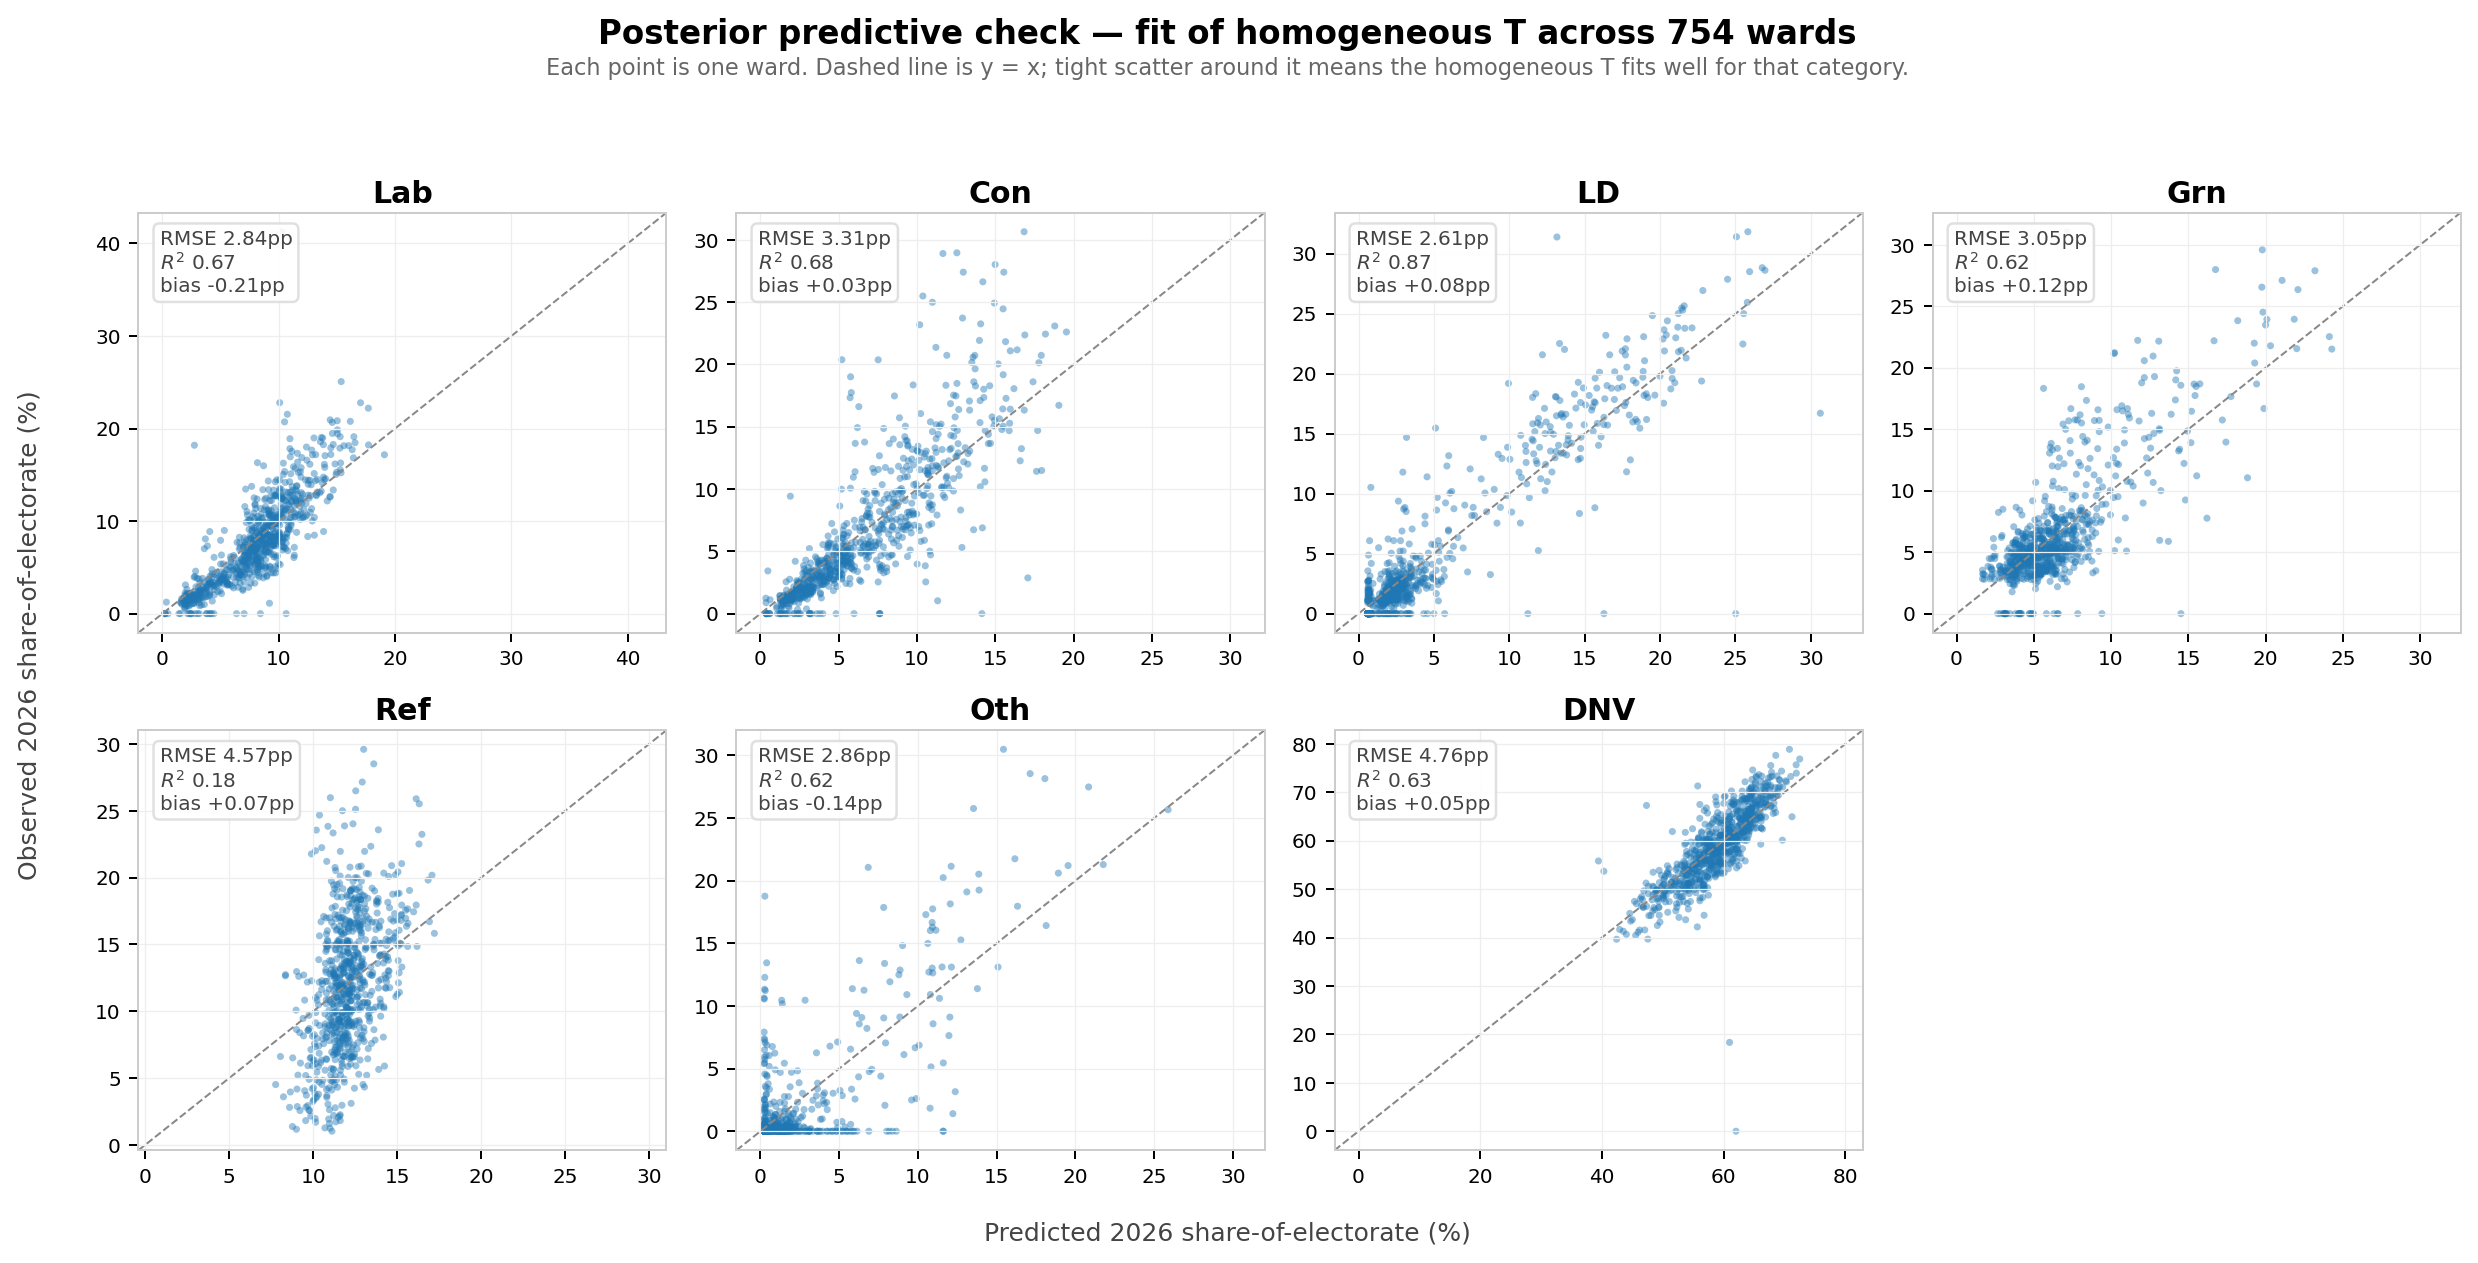
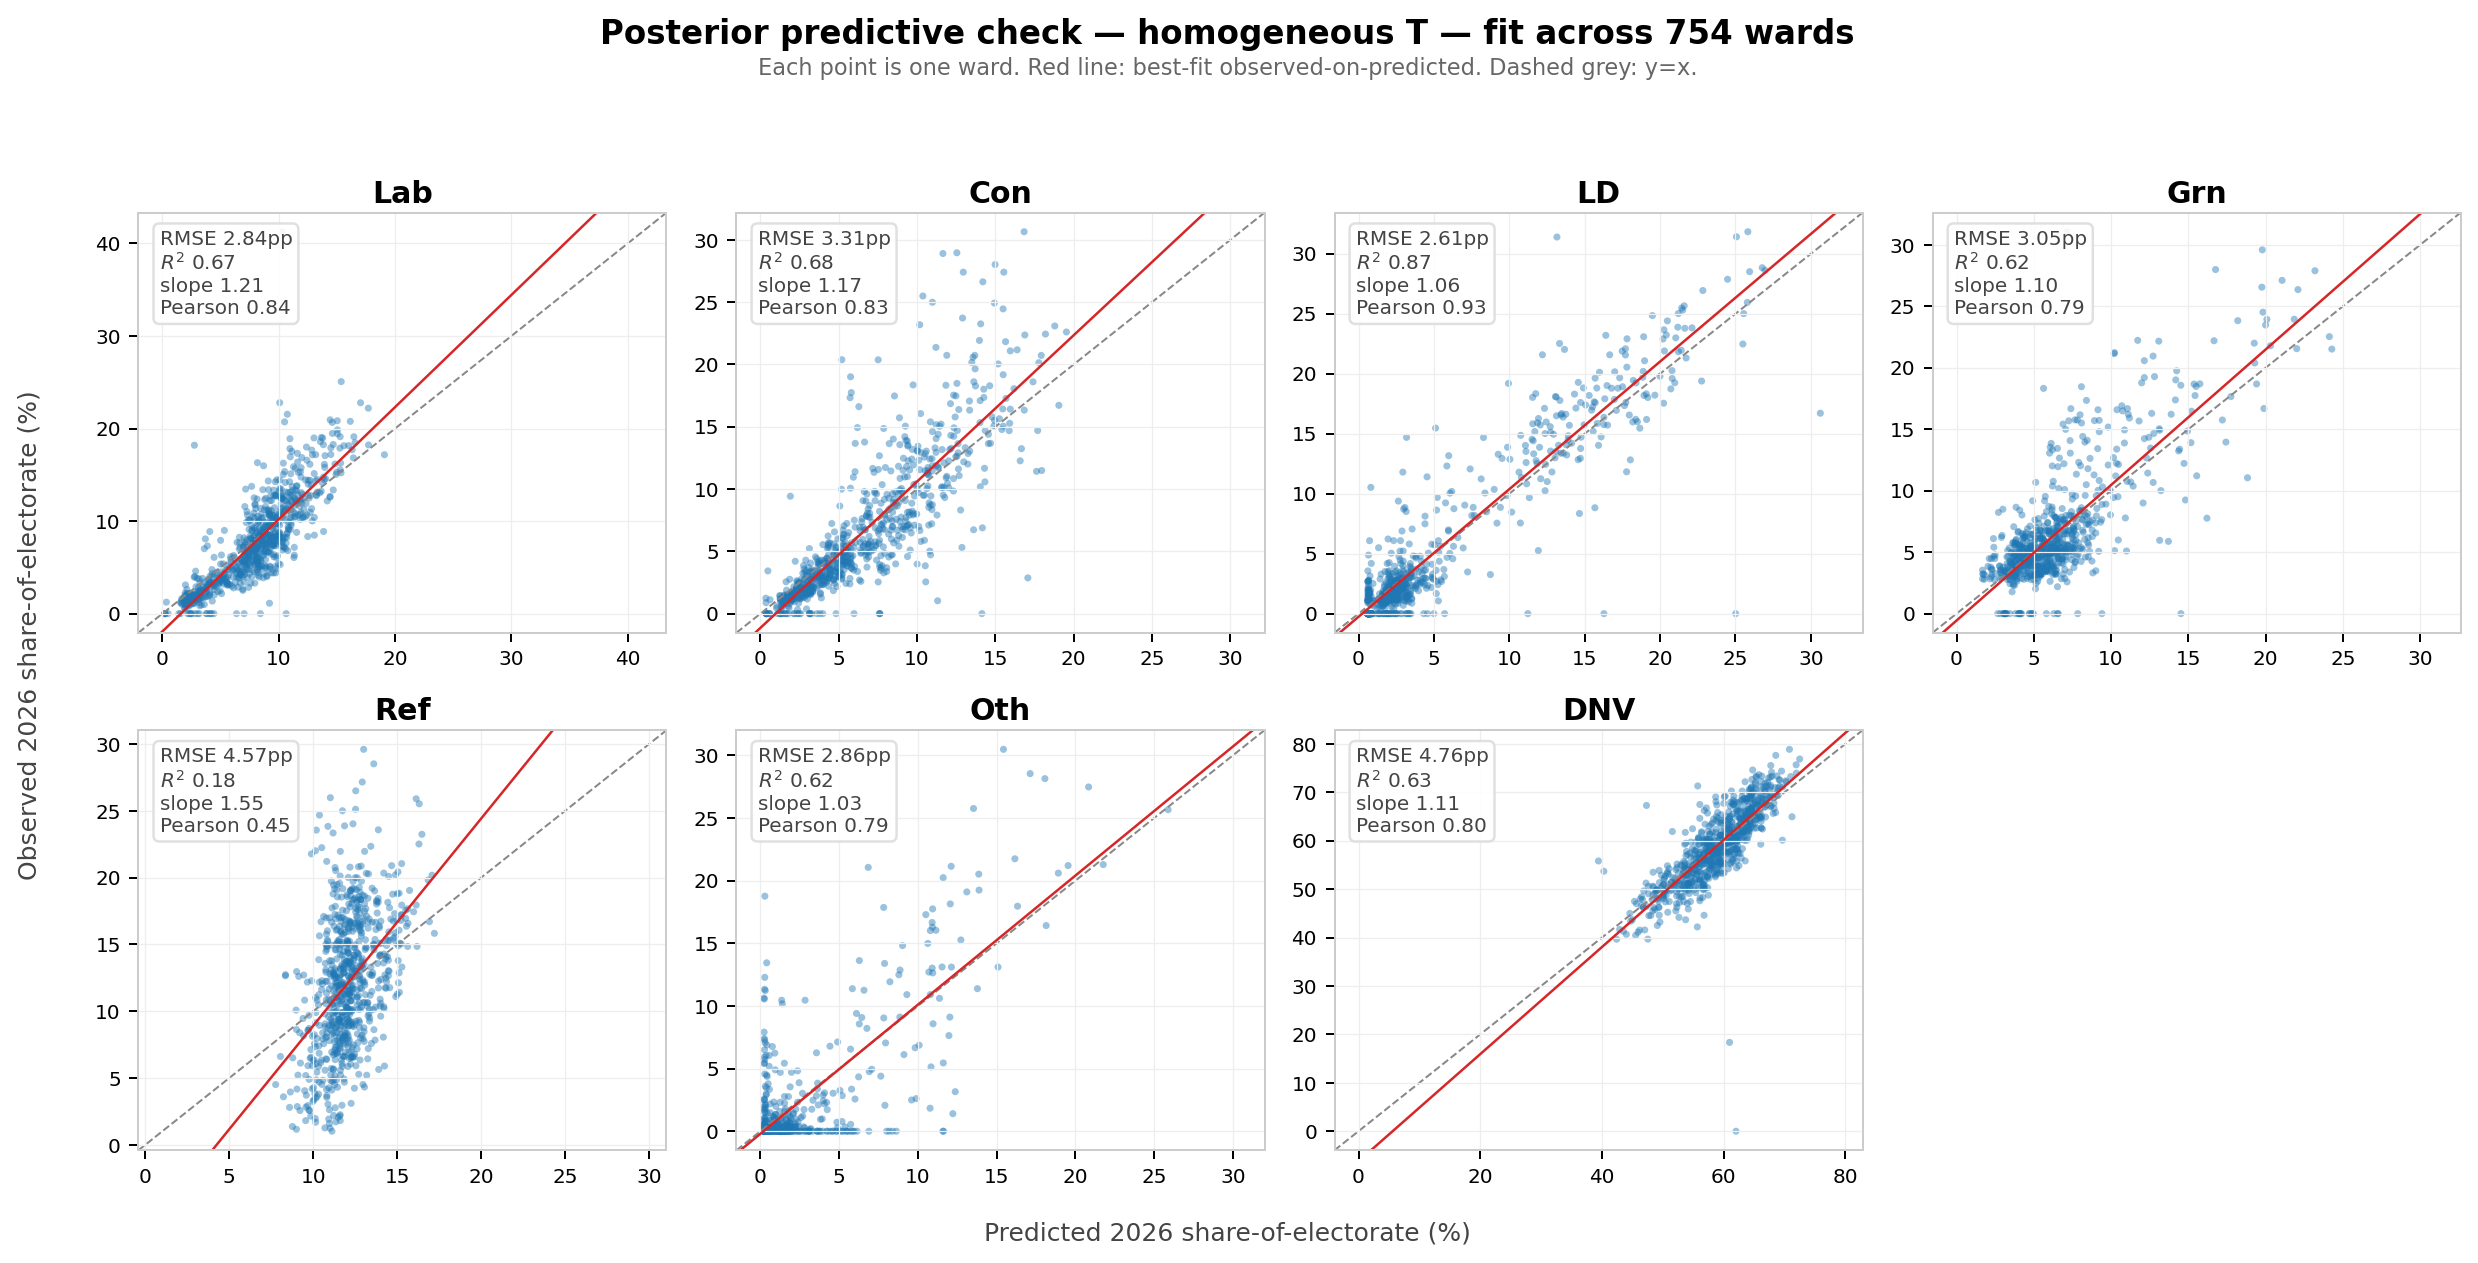
UK -> English

diff --git a/figures/sankey_full.html b/figures/sankey_full.html
@@ -2,6 +2,6 @@
 <head><meta charset="utf-8" /></head>
 <body>
     <div>                        <script>window.PlotlyConfig = {MathJaxConfig: 'local'};</script>
-        <script charset="utf-8" src="https://cdn.plot.ly/plotly-3.5.0.min.js" integrity="sha256-fHbNLP+GlIXN+efbQec78UkemUz3NJp7UmfGxC1tNxs=" crossorigin="anonymous"></script>                <div id="5f172fbe-a891-4b2c-b0cd-d0e1274adbca" class="plotly-graph-div" style="height:720px; width:950px;"></div>            <script>                window.PLOTLYENV=window.PLOTLYENV || {};                                if (document.getElementById("5f172fbe-a891-4b2c-b0cd-d0e1274adbca")) {                    Plotly.newPlot(                        "5f172fbe-a891-4b2c-b0cd-d0e1274adbca",                        [{"arrangement":"perpendicular","link":{"color":["rgba(228,0,59,0.3)","rgba(228,0,59,0.6)","rgba(228,0,59,0.6)","rgba(0,135,220,0.3)","rgba(0,135,220,0.6)","rgba(250,166,26,0.3)","rgba(106,176,35,0.3)","rgba(18,182,207,0.3)","rgba(74,74,74,0.6)","rgba(74,74,74,0.6)","rgba(74,74,74,0.6)","rgba(74,74,74,0.3)"],"hovertemplate":"%{source.label} → %{target.label}\u003cbr\u003e%{value:.1f}pp\u003cextra\u003e\u003c\u002fextra\u003e","source":[0,0,0,1,1,2,3,4,5,5,5,5],"target":[6,9,11,7,10,8,9,10,8,9,10,11],"value":[7.725798545079956,2.5405623158619495,1.1823248083238842,6.256578490420544,1.6050570512082598,4.772845152464143,3.0430064993888486,0.5019098107090869,0.3686037135278519,0.7576854111405844,9.604174535809028,57.16770557029184]},"node":{"color":["#E4003B","#0087DC","#FAA61A","#6AB023","#12B6CF","#4A4A4A","#E4003B","#0087DC","#FAA61A","#6AB023","#12B6CF","#4A4A4A"],"hovertemplate":"%{label}\u003cbr\u003e%{value:.1f}pp of electorate\u003cextra\u003e\u003c\u002fextra\u003e","label":["Lab","Con","LD","Grn","Ref","DNV","Lab","Con","LD","Grn","Ref","DNV"],"line":{"color":"rgba(0,0,0,0)","width":0},"pad":24,"thickness":22},"type":"sankey"}],                        {"template":{"data":{"histogram2dcontour":[{"type":"histogram2dcontour","colorbar":{"outlinewidth":0,"ticks":""},"colorscale":[[0.0,"#0d0887"],[0.1111111111111111,"#46039f"],[0.2222222222222222,"#7201a8"],[0.3333333333333333,"#9c179e"],[0.4444444444444444,"#bd3786"],[0.5555555555555556,"#d8576b"],[0.6666666666666666,"#ed7953"],[0.7777777777777778,"#fb9f3a"],[0.8888888888888888,"#fdca26"],[1.0,"#f0f921"]]}],"choropleth":[{"type":"choropleth","colorbar":{"outlinewidth":0,"ticks":""}}],"histogram2d":[{"type":"histogram2d","colorbar":{"outlinewidth":0,"ticks":""},"colorscale":[[0.0,"#0d0887"],[0.1111111111111111,"#46039f"],[0.2222222222222222,"#7201a8"],[0.3333333333333333,"#9c179e"],[0.4444444444444444,"#bd3786"],[0.5555555555555556,"#d8576b"],[0.6666666666666666,"#ed7953"],[0.7777777777777778,"#fb9f3a"],[0.8888888888888888,"#fdca26"],[1.0,"#f0f921"]]}],"heatmap":[{"type":"heatmap","colorbar":{"outlinewidth":0,"ticks":""},"colorscale":[[0.0,"#0d0887"],[0.1111111111111111,"#46039f"],[0.2222222222222222,"#7201a8"],[0.3333333333333333,"#9c179e"],[0.4444444444444444,"#bd3786"],[0.5555555555555556,"#d8576b"],[0.6666666666666666,"#ed7953"],[0.7777777777777778,"#fb9f3a"],[0.8888888888888888,"#fdca26"],[1.0,"#f0f921"]]}],"contourcarpet":[{"type":"contourcarpet","colorbar":{"outlinewidth":0,"ticks":""}}],"contour":[{"type":"contour","colorbar":{"outlinewidth":0,"ticks":""},"colorscale":[[0.0,"#0d0887"],[0.1111111111111111,"#46039f"],[0.2222222222222222,"#7201a8"],[0.3333333333333333,"#9c179e"],[0.4444444444444444,"#bd3786"],[0.5555555555555556,"#d8576b"],[0.6666666666666666,"#ed7953"],[0.7777777777777778,"#fb9f3a"],[0.8888888888888888,"#fdca26"],[1.0,"#f0f921"]]}],"surface":[{"type":"surface","colorbar":{"outlinewidth":0,"ticks":""},"colorscale":[[0.0,"#0d0887"],[0.1111111111111111,"#46039f"],[0.2222222222222222,"#7201a8"],[0.3333333333333333,"#9c179e"],[0.4444444444444444,"#bd3786"],[0.5555555555555556,"#d8576b"],[0.6666666666666666,"#ed7953"],[0.7777777777777778,"#fb9f3a"],[0.8888888888888888,"#fdca26"],[1.0,"#f0f921"]]}],"mesh3d":[{"type":"mesh3d","colorbar":{"outlinewidth":0,"ticks":""}}],"scatter":[{"fillpattern":{"fillmode":"overlay","size":10,"solidity":0.2},"type":"scatter"}],"parcoords":[{"type":"parcoords","line":{"colorbar":{"outlinewidth":0,"ticks":""}}}],"scatterpolargl":[{"type":"scatterpolargl","marker":{"colorbar":{"outlinewidth":0,"ticks":""}}}],"bar":[{"error_x":{"color":"#2a3f5f"},"error_y":{"color":"#2a3f5f"},"marker":{"line":{"color":"#E5ECF6","width":0.5},"pattern":{"fillmode":"overlay","size":10,"solidity":0.2}},"type":"bar"}],"scattergeo":[{"type":"scattergeo","marker":{"colorbar":{"outlinewidth":0,"ticks":""}}}],"scatterpolar":[{"type":"scatterpolar","marker":{"colorbar":{"outlinewidth":0,"ticks":""}}}],"histogram":[{"marker":{"pattern":{"fillmode":"overlay","size":10,"solidity":0.2}},"type":"histogram"}],"scattergl":[{"type":"scattergl","marker":{"colorbar":{"outlinewidth":0,"ticks":""}}}],"scatter3d":[{"type":"scatter3d","line":{"colorbar":{"outlinewidth":0,"ticks":""}},"marker":{"colorbar":{"outlinewidth":0,"ticks":""}}}],"scattermap":[{"type":"scattermap","marker":{"colorbar":{"outlinewidth":0,"ticks":""}}}],"scattermapbox":[{"type":"scattermapbox","marker":{"colorbar":{"outlinewidth":0,"ticks":""}}}],"scatterternary":[{"type":"scatterternary","marker":{"colorbar":{"outlinewidth":0,"ticks":""}}}],"scattercarpet":[{"type":"scattercarpet","marker":{"colorbar":{"outlinewidth":0,"ticks":""}}}],"carpet":[{"aaxis":{"endlinecolor":"#2a3f5f","gridcolor":"white","linecolor":"white","minorgridcolor":"white","startlinecolor":"#2a3f5f"},"baxis":{"endlinecolor":"#2a3f5f","gridcolor":"white","linecolor":"white","minorgridcolor":"white","startlinecolor":"#2a3f5f"},"type":"carpet"}],"table":[{"cells":{"fill":{"color":"#EBF0F8"},"line":{"color":"white"}},"header":{"fill":{"color":"#C8D4E3"},"line":{"color":"white"}},"type":"table"}],"barpolar":[{"marker":{"line":{"color":"#E5ECF6","width":0.5},"pattern":{"fillmode":"overlay","size":10,"solidity":0.2}},"type":"barpolar"}],"pie":[{"automargin":true,"type":"pie"}]},"layout":{"autotypenumbers":"strict","colorway":["#636efa","#EF553B","#00cc96","#ab63fa","#FFA15A","#19d3f3","#FF6692","#B6E880","#FF97FF","#FECB52"],"font":{"color":"#2a3f5f"},"hovermode":"closest","hoverlabel":{"align":"left"},"paper_bgcolor":"white","plot_bgcolor":"#E5ECF6","polar":{"bgcolor":"#E5ECF6","angularaxis":{"gridcolor":"white","linecolor":"white","ticks":""},"radialaxis":{"gridcolor":"white","linecolor":"white","ticks":""}},"ternary":{"bgcolor":"#E5ECF6","aaxis":{"gridcolor":"white","linecolor":"white","ticks":""},"baxis":{"gridcolor":"white","linecolor":"white","ticks":""},"caxis":{"gridcolor":"white","linecolor":"white","ticks":""}},"coloraxis":{"colorbar":{"outlinewidth":0,"ticks":""}},"colorscale":{"sequential":[[0.0,"#0d0887"],[0.1111111111111111,"#46039f"],[0.2222222222222222,"#7201a8"],[0.3333333333333333,"#9c179e"],[0.4444444444444444,"#bd3786"],[0.5555555555555556,"#d8576b"],[0.6666666666666666,"#ed7953"],[0.7777777777777778,"#fb9f3a"],[0.8888888888888888,"#fdca26"],[1.0,"#f0f921"]],"sequentialminus":[[0.0,"#0d0887"],[0.1111111111111111,"#46039f"],[0.2222222222222222,"#7201a8"],[0.3333333333333333,"#9c179e"],[0.4444444444444444,"#bd3786"],[0.5555555555555556,"#d8576b"],[0.6666666666666666,"#ed7953"],[0.7777777777777778,"#fb9f3a"],[0.8888888888888888,"#fdca26"],[1.0,"#f0f921"]],"diverging":[[0,"#8e0152"],[0.1,"#c51b7d"],[0.2,"#de77ae"],[0.3,"#f1b6da"],[0.4,"#fde0ef"],[0.5,"#f7f7f7"],[0.6,"#e6f5d0"],[0.7,"#b8e186"],[0.8,"#7fbc41"],[0.9,"#4d9221"],[1,"#276419"]]},"xaxis":{"gridcolor":"white","linecolor":"white","ticks":"","title":{"standoff":15},"zerolinecolor":"white","automargin":true,"zerolinewidth":2},"yaxis":{"gridcolor":"white","linecolor":"white","ticks":"","title":{"standoff":15},"zerolinecolor":"white","automargin":true,"zerolinewidth":2},"scene":{"xaxis":{"backgroundcolor":"#E5ECF6","gridcolor":"white","linecolor":"white","showbackground":true,"ticks":"","zerolinecolor":"white","gridwidth":2},"yaxis":{"backgroundcolor":"#E5ECF6","gridcolor":"white","linecolor":"white","showbackground":true,"ticks":"","zerolinecolor":"white","gridwidth":2},"zaxis":{"backgroundcolor":"#E5ECF6","gridcolor":"white","linecolor":"white","showbackground":true,"ticks":"","zerolinecolor":"white","gridwidth":2}},"shapedefaults":{"line":{"color":"#2a3f5f"}},"annotationdefaults":{"arrowcolor":"#2a3f5f","arrowhead":0,"arrowwidth":1},"geo":{"bgcolor":"white","landcolor":"#E5ECF6","subunitcolor":"white","showland":true,"showlakes":true,"lakecolor":"white"},"title":{"x":0.05},"mapbox":{"style":"light"}}},"title":{"font":{"family":"Helvetica Neue, Arial, sans-serif","size":22,"color":"#1a1a1a"},"text":"Voter flows, UK local elections 2024 → 2026","x":0.5,"xanchor":"center","y":0.96},"font":{"family":"Helvetica Neue, Arial, sans-serif","size":14,"color":"#1a1a1a"},"margin":{"l":80,"r":100,"t":120,"b":80},"paper_bgcolor":"white","plot_bgcolor":"white","width":950,"height":720,"annotations":[{"font":{"color":"#555","size":13},"showarrow":false,"text":"","x":0.5,"xanchor":"center","xref":"paper","y":1.06,"yref":"paper"},{"font":{"color":"#888","size":10},"showarrow":false,"text":"Bayes RxC model · n=754 wards · flows \u003c 0.3pp suppressed · minor parties (Oth) omitted","x":0.5,"xanchor":"center","xref":"paper","y":-0.05,"yref":"paper"}]},                        {"responsive": true}                    )                };            </script>        </div>
+        <script charset="utf-8" src="https://cdn.plot.ly/plotly-3.5.0.min.js" integrity="sha256-fHbNLP+GlIXN+efbQec78UkemUz3NJp7UmfGxC1tNxs=" crossorigin="anonymous"></script>                <div id="cf4ace2c-3786-4530-876e-deef76ff2d9d" class="plotly-graph-div" style="height:720px; width:950px;"></div>            <script>                window.PLOTLYENV=window.PLOTLYENV || {};                                if (document.getElementById("cf4ace2c-3786-4530-876e-deef76ff2d9d")) {                    Plotly.newPlot(                        "cf4ace2c-3786-4530-876e-deef76ff2d9d",                        [{"arrangement":"perpendicular","link":{"color":["rgba(228,0,59,0.3)","rgba(228,0,59,0.6)","rgba(228,0,59,0.6)","rgba(0,135,220,0.3)","rgba(0,135,220,0.6)","rgba(250,166,26,0.3)","rgba(106,176,35,0.3)","rgba(18,182,207,0.3)","rgba(74,74,74,0.6)","rgba(74,74,74,0.6)","rgba(74,74,74,0.6)","rgba(74,74,74,0.3)"],"hovertemplate":"%{source.label} → %{target.label}\u003cbr\u003e%{value:.1f}pp\u003cextra\u003e\u003c\u002fextra\u003e","source":[0,0,0,1,1,2,3,4,5,5,5,5],"target":[6,9,11,7,10,8,9,10,8,9,10,11],"value":[7.725798545079956,2.5405623158619495,1.1823248083238842,6.256578490420544,1.6050570512082598,4.772845152464143,3.0430064993888486,0.5019098107090869,0.3686037135278519,0.7576854111405844,9.604174535809028,57.16770557029184]},"node":{"color":["#E4003B","#0087DC","#FAA61A","#6AB023","#12B6CF","#4A4A4A","#E4003B","#0087DC","#FAA61A","#6AB023","#12B6CF","#4A4A4A"],"hovertemplate":"%{label}\u003cbr\u003e%{value:.1f}pp of electorate\u003cextra\u003e\u003c\u002fextra\u003e","label":["Lab","Con","LD","Grn","Ref","DNV","Lab","Con","LD","Grn","Ref","DNV"],"line":{"color":"rgba(0,0,0,0)","width":0},"pad":24,"thickness":22},"type":"sankey"}],                        {"template":{"data":{"histogram2dcontour":[{"type":"histogram2dcontour","colorbar":{"outlinewidth":0,"ticks":""},"colorscale":[[0.0,"#0d0887"],[0.1111111111111111,"#46039f"],[0.2222222222222222,"#7201a8"],[0.3333333333333333,"#9c179e"],[0.4444444444444444,"#bd3786"],[0.5555555555555556,"#d8576b"],[0.6666666666666666,"#ed7953"],[0.7777777777777778,"#fb9f3a"],[0.8888888888888888,"#fdca26"],[1.0,"#f0f921"]]}],"choropleth":[{"type":"choropleth","colorbar":{"outlinewidth":0,"ticks":""}}],"histogram2d":[{"type":"histogram2d","colorbar":{"outlinewidth":0,"ticks":""},"colorscale":[[0.0,"#0d0887"],[0.1111111111111111,"#46039f"],[0.2222222222222222,"#7201a8"],[0.3333333333333333,"#9c179e"],[0.4444444444444444,"#bd3786"],[0.5555555555555556,"#d8576b"],[0.6666666666666666,"#ed7953"],[0.7777777777777778,"#fb9f3a"],[0.8888888888888888,"#fdca26"],[1.0,"#f0f921"]]}],"heatmap":[{"type":"heatmap","colorbar":{"outlinewidth":0,"ticks":""},"colorscale":[[0.0,"#0d0887"],[0.1111111111111111,"#46039f"],[0.2222222222222222,"#7201a8"],[0.3333333333333333,"#9c179e"],[0.4444444444444444,"#bd3786"],[0.5555555555555556,"#d8576b"],[0.6666666666666666,"#ed7953"],[0.7777777777777778,"#fb9f3a"],[0.8888888888888888,"#fdca26"],[1.0,"#f0f921"]]}],"contourcarpet":[{"type":"contourcarpet","colorbar":{"outlinewidth":0,"ticks":""}}],"contour":[{"type":"contour","colorbar":{"outlinewidth":0,"ticks":""},"colorscale":[[0.0,"#0d0887"],[0.1111111111111111,"#46039f"],[0.2222222222222222,"#7201a8"],[0.3333333333333333,"#9c179e"],[0.4444444444444444,"#bd3786"],[0.5555555555555556,"#d8576b"],[0.6666666666666666,"#ed7953"],[0.7777777777777778,"#fb9f3a"],[0.8888888888888888,"#fdca26"],[1.0,"#f0f921"]]}],"surface":[{"type":"surface","colorbar":{"outlinewidth":0,"ticks":""},"colorscale":[[0.0,"#0d0887"],[0.1111111111111111,"#46039f"],[0.2222222222222222,"#7201a8"],[0.3333333333333333,"#9c179e"],[0.4444444444444444,"#bd3786"],[0.5555555555555556,"#d8576b"],[0.6666666666666666,"#ed7953"],[0.7777777777777778,"#fb9f3a"],[0.8888888888888888,"#fdca26"],[1.0,"#f0f921"]]}],"mesh3d":[{"type":"mesh3d","colorbar":{"outlinewidth":0,"ticks":""}}],"scatter":[{"fillpattern":{"fillmode":"overlay","size":10,"solidity":0.2},"type":"scatter"}],"parcoords":[{"type":"parcoords","line":{"colorbar":{"outlinewidth":0,"ticks":""}}}],"scatterpolargl":[{"type":"scatterpolargl","marker":{"colorbar":{"outlinewidth":0,"ticks":""}}}],"bar":[{"error_x":{"color":"#2a3f5f"},"error_y":{"color":"#2a3f5f"},"marker":{"line":{"color":"#E5ECF6","width":0.5},"pattern":{"fillmode":"overlay","size":10,"solidity":0.2}},"type":"bar"}],"scattergeo":[{"type":"scattergeo","marker":{"colorbar":{"outlinewidth":0,"ticks":""}}}],"scatterpolar":[{"type":"scatterpolar","marker":{"colorbar":{"outlinewidth":0,"ticks":""}}}],"histogram":[{"marker":{"pattern":{"fillmode":"overlay","size":10,"solidity":0.2}},"type":"histogram"}],"scattergl":[{"type":"scattergl","marker":{"colorbar":{"outlinewidth":0,"ticks":""}}}],"scatter3d":[{"type":"scatter3d","line":{"colorbar":{"outlinewidth":0,"ticks":""}},"marker":{"colorbar":{"outlinewidth":0,"ticks":""}}}],"scattermap":[{"type":"scattermap","marker":{"colorbar":{"outlinewidth":0,"ticks":""}}}],"scattermapbox":[{"type":"scattermapbox","marker":{"colorbar":{"outlinewidth":0,"ticks":""}}}],"scatterternary":[{"type":"scatterternary","marker":{"colorbar":{"outlinewidth":0,"ticks":""}}}],"scattercarpet":[{"type":"scattercarpet","marker":{"colorbar":{"outlinewidth":0,"ticks":""}}}],"carpet":[{"aaxis":{"endlinecolor":"#2a3f5f","gridcolor":"white","linecolor":"white","minorgridcolor":"white","startlinecolor":"#2a3f5f"},"baxis":{"endlinecolor":"#2a3f5f","gridcolor":"white","linecolor":"white","minorgridcolor":"white","startlinecolor":"#2a3f5f"},"type":"carpet"}],"table":[{"cells":{"fill":{"color":"#EBF0F8"},"line":{"color":"white"}},"header":{"fill":{"color":"#C8D4E3"},"line":{"color":"white"}},"type":"table"}],"barpolar":[{"marker":{"line":{"color":"#E5ECF6","width":0.5},"pattern":{"fillmode":"overlay","size":10,"solidity":0.2}},"type":"barpolar"}],"pie":[{"automargin":true,"type":"pie"}]},"layout":{"autotypenumbers":"strict","colorway":["#636efa","#EF553B","#00cc96","#ab63fa","#FFA15A","#19d3f3","#FF6692","#B6E880","#FF97FF","#FECB52"],"font":{"color":"#2a3f5f"},"hovermode":"closest","hoverlabel":{"align":"left"},"paper_bgcolor":"white","plot_bgcolor":"#E5ECF6","polar":{"bgcolor":"#E5ECF6","angularaxis":{"gridcolor":"white","linecolor":"white","ticks":""},"radialaxis":{"gridcolor":"white","linecolor":"white","ticks":""}},"ternary":{"bgcolor":"#E5ECF6","aaxis":{"gridcolor":"white","linecolor":"white","ticks":""},"baxis":{"gridcolor":"white","linecolor":"white","ticks":""},"caxis":{"gridcolor":"white","linecolor":"white","ticks":""}},"coloraxis":{"colorbar":{"outlinewidth":0,"ticks":""}},"colorscale":{"sequential":[[0.0,"#0d0887"],[0.1111111111111111,"#46039f"],[0.2222222222222222,"#7201a8"],[0.3333333333333333,"#9c179e"],[0.4444444444444444,"#bd3786"],[0.5555555555555556,"#d8576b"],[0.6666666666666666,"#ed7953"],[0.7777777777777778,"#fb9f3a"],[0.8888888888888888,"#fdca26"],[1.0,"#f0f921"]],"sequentialminus":[[0.0,"#0d0887"],[0.1111111111111111,"#46039f"],[0.2222222222222222,"#7201a8"],[0.3333333333333333,"#9c179e"],[0.4444444444444444,"#bd3786"],[0.5555555555555556,"#d8576b"],[0.6666666666666666,"#ed7953"],[0.7777777777777778,"#fb9f3a"],[0.8888888888888888,"#fdca26"],[1.0,"#f0f921"]],"diverging":[[0,"#8e0152"],[0.1,"#c51b7d"],[0.2,"#de77ae"],[0.3,"#f1b6da"],[0.4,"#fde0ef"],[0.5,"#f7f7f7"],[0.6,"#e6f5d0"],[0.7,"#b8e186"],[0.8,"#7fbc41"],[0.9,"#4d9221"],[1,"#276419"]]},"xaxis":{"gridcolor":"white","linecolor":"white","ticks":"","title":{"standoff":15},"zerolinecolor":"white","automargin":true,"zerolinewidth":2},"yaxis":{"gridcolor":"white","linecolor":"white","ticks":"","title":{"standoff":15},"zerolinecolor":"white","automargin":true,"zerolinewidth":2},"scene":{"xaxis":{"backgroundcolor":"#E5ECF6","gridcolor":"white","linecolor":"white","showbackground":true,"ticks":"","zerolinecolor":"white","gridwidth":2},"yaxis":{"backgroundcolor":"#E5ECF6","gridcolor":"white","linecolor":"white","showbackground":true,"ticks":"","zerolinecolor":"white","gridwidth":2},"zaxis":{"backgroundcolor":"#E5ECF6","gridcolor":"white","linecolor":"white","showbackground":true,"ticks":"","zerolinecolor":"white","gridwidth":2}},"shapedefaults":{"line":{"color":"#2a3f5f"}},"annotationdefaults":{"arrowcolor":"#2a3f5f","arrowhead":0,"arrowwidth":1},"geo":{"bgcolor":"white","landcolor":"#E5ECF6","subunitcolor":"white","showland":true,"showlakes":true,"lakecolor":"white"},"title":{"x":0.05},"mapbox":{"style":"light"}}},"title":{"font":{"family":"Helvetica Neue, Arial, sans-serif","size":22,"color":"#1a1a1a"},"text":"Voter flows, English local elections 2024 → 2026","x":0.5,"xanchor":"center","y":0.96},"font":{"family":"Helvetica Neue, Arial, sans-serif","size":14,"color":"#1a1a1a"},"margin":{"l":80,"r":100,"t":120,"b":80},"paper_bgcolor":"white","plot_bgcolor":"white","width":950,"height":720,"annotations":[{"font":{"color":"#555","size":13},"showarrow":false,"text":"","x":0.5,"xanchor":"center","xref":"paper","y":1.06,"yref":"paper"},{"font":{"color":"#888","size":10},"showarrow":false,"text":"Bayes RxC model · n=754 wards · flows \u003c 0.3pp suppressed · minor parties (Oth) omitted","x":0.5,"xanchor":"center","xref":"paper","y":-0.05,"yref":"paper"}]},                        {"responsive": true}                    )                };            </script>        </div>
 </body>
 </html>

diff --git a/figures/sankey_full_latent.html b/figures/sankey_full_latent.html
@@ -2,6 +2,6 @@
 <head><meta charset="utf-8" /></head>
 <body>
     <div>                        <script>window.PlotlyConfig = {MathJaxConfig: 'local'};</script>
-        <script charset="utf-8" src="https://cdn.plot.ly/plotly-3.5.0.min.js" integrity="sha256-fHbNLP+GlIXN+efbQec78UkemUz3NJp7UmfGxC1tNxs=" crossorigin="anonymous"></script>                <div id="1d2183b6-6d68-4b1a-96f2-9ca825e7c607" class="plotly-graph-div" style="height:720px; width:950px;"></div>            <script>                window.PLOTLYENV=window.PLOTLYENV || {};                                if (document.getElementById("1d2183b6-6d68-4b1a-96f2-9ca825e7c607")) {                    Plotly.newPlot(                        "1d2183b6-6d68-4b1a-96f2-9ca825e7c607",                        [{"arrangement":"perpendicular","link":{"color":["rgba(228,0,59,0.3)","rgba(228,0,59,0.6)","rgba(228,0,59,0.6)","rgba(0,135,220,0.3)","rgba(0,135,220,0.6)","rgba(250,166,26,0.3)","rgba(106,176,35,0.3)","rgba(18,182,207,0.3)","rgba(74,74,74,0.6)","rgba(74,74,74,0.6)","rgba(74,74,74,0.6)","rgba(74,74,74,0.3)"],"hovertemplate":"%{source.label} → %{target.label}\u003cbr\u003e%{value:.1f}pp\u003cextra\u003e\u003c\u002fextra\u003e","source":[0,0,0,1,1,2,3,4,5,5,5,5],"target":[6,9,11,7,10,8,9,10,8,9,10,11],"value":[7.742660279272259,2.6055423805748252,1.088028686393883,6.434881133011283,1.2723170941462203,4.764927990738365,3.048109600297096,3.507013702919272,0.32117261665281394,0.6685634060936128,7.013361220785937,57.21460756657986]},"node":{"color":["#E4003B","#0087DC","#FAA61A","#6AB023","#12B6CF","#4A4A4A","#E4003B","#0087DC","#FAA61A","#6AB023","#12B6CF","#4A4A4A"],"hovertemplate":"%{label}\u003cbr\u003e%{value:.1f}pp of electorate\u003cextra\u003e\u003c\u002fextra\u003e","label":["Lab","Con","LD","Grn","Ref","DNV","Lab","Con","LD","Grn","Ref","DNV"],"line":{"color":"rgba(0,0,0,0)","width":0},"pad":24,"thickness":22},"type":"sankey"}],                        {"template":{"data":{"histogram2dcontour":[{"type":"histogram2dcontour","colorbar":{"outlinewidth":0,"ticks":""},"colorscale":[[0.0,"#0d0887"],[0.1111111111111111,"#46039f"],[0.2222222222222222,"#7201a8"],[0.3333333333333333,"#9c179e"],[0.4444444444444444,"#bd3786"],[0.5555555555555556,"#d8576b"],[0.6666666666666666,"#ed7953"],[0.7777777777777778,"#fb9f3a"],[0.8888888888888888,"#fdca26"],[1.0,"#f0f921"]]}],"choropleth":[{"type":"choropleth","colorbar":{"outlinewidth":0,"ticks":""}}],"histogram2d":[{"type":"histogram2d","colorbar":{"outlinewidth":0,"ticks":""},"colorscale":[[0.0,"#0d0887"],[0.1111111111111111,"#46039f"],[0.2222222222222222,"#7201a8"],[0.3333333333333333,"#9c179e"],[0.4444444444444444,"#bd3786"],[0.5555555555555556,"#d8576b"],[0.6666666666666666,"#ed7953"],[0.7777777777777778,"#fb9f3a"],[0.8888888888888888,"#fdca26"],[1.0,"#f0f921"]]}],"heatmap":[{"type":"heatmap","colorbar":{"outlinewidth":0,"ticks":""},"colorscale":[[0.0,"#0d0887"],[0.1111111111111111,"#46039f"],[0.2222222222222222,"#7201a8"],[0.3333333333333333,"#9c179e"],[0.4444444444444444,"#bd3786"],[0.5555555555555556,"#d8576b"],[0.6666666666666666,"#ed7953"],[0.7777777777777778,"#fb9f3a"],[0.8888888888888888,"#fdca26"],[1.0,"#f0f921"]]}],"contourcarpet":[{"type":"contourcarpet","colorbar":{"outlinewidth":0,"ticks":""}}],"contour":[{"type":"contour","colorbar":{"outlinewidth":0,"ticks":""},"colorscale":[[0.0,"#0d0887"],[0.1111111111111111,"#46039f"],[0.2222222222222222,"#7201a8"],[0.3333333333333333,"#9c179e"],[0.4444444444444444,"#bd3786"],[0.5555555555555556,"#d8576b"],[0.6666666666666666,"#ed7953"],[0.7777777777777778,"#fb9f3a"],[0.8888888888888888,"#fdca26"],[1.0,"#f0f921"]]}],"surface":[{"type":"surface","colorbar":{"outlinewidth":0,"ticks":""},"colorscale":[[0.0,"#0d0887"],[0.1111111111111111,"#46039f"],[0.2222222222222222,"#7201a8"],[0.3333333333333333,"#9c179e"],[0.4444444444444444,"#bd3786"],[0.5555555555555556,"#d8576b"],[0.6666666666666666,"#ed7953"],[0.7777777777777778,"#fb9f3a"],[0.8888888888888888,"#fdca26"],[1.0,"#f0f921"]]}],"mesh3d":[{"type":"mesh3d","colorbar":{"outlinewidth":0,"ticks":""}}],"scatter":[{"fillpattern":{"fillmode":"overlay","size":10,"solidity":0.2},"type":"scatter"}],"parcoords":[{"type":"parcoords","line":{"colorbar":{"outlinewidth":0,"ticks":""}}}],"scatterpolargl":[{"type":"scatterpolargl","marker":{"colorbar":{"outlinewidth":0,"ticks":""}}}],"bar":[{"error_x":{"color":"#2a3f5f"},"error_y":{"color":"#2a3f5f"},"marker":{"line":{"color":"#E5ECF6","width":0.5},"pattern":{"fillmode":"overlay","size":10,"solidity":0.2}},"type":"bar"}],"scattergeo":[{"type":"scattergeo","marker":{"colorbar":{"outlinewidth":0,"ticks":""}}}],"scatterpolar":[{"type":"scatterpolar","marker":{"colorbar":{"outlinewidth":0,"ticks":""}}}],"histogram":[{"marker":{"pattern":{"fillmode":"overlay","size":10,"solidity":0.2}},"type":"histogram"}],"scattergl":[{"type":"scattergl","marker":{"colorbar":{"outlinewidth":0,"ticks":""}}}],"scatter3d":[{"type":"scatter3d","line":{"colorbar":{"outlinewidth":0,"ticks":""}},"marker":{"colorbar":{"outlinewidth":0,"ticks":""}}}],"scattermap":[{"type":"scattermap","marker":{"colorbar":{"outlinewidth":0,"ticks":""}}}],"scattermapbox":[{"type":"scattermapbox","marker":{"colorbar":{"outlinewidth":0,"ticks":""}}}],"scatterternary":[{"type":"scatterternary","marker":{"colorbar":{"outlinewidth":0,"ticks":""}}}],"scattercarpet":[{"type":"scattercarpet","marker":{"colorbar":{"outlinewidth":0,"ticks":""}}}],"carpet":[{"aaxis":{"endlinecolor":"#2a3f5f","gridcolor":"white","linecolor":"white","minorgridcolor":"white","startlinecolor":"#2a3f5f"},"baxis":{"endlinecolor":"#2a3f5f","gridcolor":"white","linecolor":"white","minorgridcolor":"white","startlinecolor":"#2a3f5f"},"type":"carpet"}],"table":[{"cells":{"fill":{"color":"#EBF0F8"},"line":{"color":"white"}},"header":{"fill":{"color":"#C8D4E3"},"line":{"color":"white"}},"type":"table"}],"barpolar":[{"marker":{"line":{"color":"#E5ECF6","width":0.5},"pattern":{"fillmode":"overlay","size":10,"solidity":0.2}},"type":"barpolar"}],"pie":[{"automargin":true,"type":"pie"}]},"layout":{"autotypenumbers":"strict","colorway":["#636efa","#EF553B","#00cc96","#ab63fa","#FFA15A","#19d3f3","#FF6692","#B6E880","#FF97FF","#FECB52"],"font":{"color":"#2a3f5f"},"hovermode":"closest","hoverlabel":{"align":"left"},"paper_bgcolor":"white","plot_bgcolor":"#E5ECF6","polar":{"bgcolor":"#E5ECF6","angularaxis":{"gridcolor":"white","linecolor":"white","ticks":""},"radialaxis":{"gridcolor":"white","linecolor":"white","ticks":""}},"ternary":{"bgcolor":"#E5ECF6","aaxis":{"gridcolor":"white","linecolor":"white","ticks":""},"baxis":{"gridcolor":"white","linecolor":"white","ticks":""},"caxis":{"gridcolor":"white","linecolor":"white","ticks":""}},"coloraxis":{"colorbar":{"outlinewidth":0,"ticks":""}},"colorscale":{"sequential":[[0.0,"#0d0887"],[0.1111111111111111,"#46039f"],[0.2222222222222222,"#7201a8"],[0.3333333333333333,"#9c179e"],[0.4444444444444444,"#bd3786"],[0.5555555555555556,"#d8576b"],[0.6666666666666666,"#ed7953"],[0.7777777777777778,"#fb9f3a"],[0.8888888888888888,"#fdca26"],[1.0,"#f0f921"]],"sequentialminus":[[0.0,"#0d0887"],[0.1111111111111111,"#46039f"],[0.2222222222222222,"#7201a8"],[0.3333333333333333,"#9c179e"],[0.4444444444444444,"#bd3786"],[0.5555555555555556,"#d8576b"],[0.6666666666666666,"#ed7953"],[0.7777777777777778,"#fb9f3a"],[0.8888888888888888,"#fdca26"],[1.0,"#f0f921"]],"diverging":[[0,"#8e0152"],[0.1,"#c51b7d"],[0.2,"#de77ae"],[0.3,"#f1b6da"],[0.4,"#fde0ef"],[0.5,"#f7f7f7"],[0.6,"#e6f5d0"],[0.7,"#b8e186"],[0.8,"#7fbc41"],[0.9,"#4d9221"],[1,"#276419"]]},"xaxis":{"gridcolor":"white","linecolor":"white","ticks":"","title":{"standoff":15},"zerolinecolor":"white","automargin":true,"zerolinewidth":2},"yaxis":{"gridcolor":"white","linecolor":"white","ticks":"","title":{"standoff":15},"zerolinecolor":"white","automargin":true,"zerolinewidth":2},"scene":{"xaxis":{"backgroundcolor":"#E5ECF6","gridcolor":"white","linecolor":"white","showbackground":true,"ticks":"","zerolinecolor":"white","gridwidth":2},"yaxis":{"backgroundcolor":"#E5ECF6","gridcolor":"white","linecolor":"white","showbackground":true,"ticks":"","zerolinecolor":"white","gridwidth":2},"zaxis":{"backgroundcolor":"#E5ECF6","gridcolor":"white","linecolor":"white","showbackground":true,"ticks":"","zerolinecolor":"white","gridwidth":2}},"shapedefaults":{"line":{"color":"#2a3f5f"}},"annotationdefaults":{"arrowcolor":"#2a3f5f","arrowhead":0,"arrowwidth":1},"geo":{"bgcolor":"white","landcolor":"#E5ECF6","subunitcolor":"white","showland":true,"showlakes":true,"lakecolor":"white"},"title":{"x":0.05},"mapbox":{"style":"light"}}},"title":{"font":{"family":"Helvetica Neue, Arial, sans-serif","size":22,"color":"#1a1a1a"},"text":"Voter flows, 2024 intent → 2026 vote","x":0.5,"xanchor":"center","y":0.96},"font":{"family":"Helvetica Neue, Arial, sans-serif","size":14,"color":"#1a1a1a"},"margin":{"l":80,"r":100,"t":120,"b":80},"paper_bgcolor":"white","plot_bgcolor":"white","width":950,"height":720,"annotations":[{"font":{"color":"#555","size":13},"showarrow":false,"text":"Latent-Reform model: 2024 Reform cohort includes voters who would have chosen Reform had a candidate stood","x":0.5,"xanchor":"center","xref":"paper","y":1.06,"yref":"paper"},{"font":{"color":"#888","size":10},"showarrow":false,"text":"Latent-Reform Bayes RxC · n=754 wards (2024 Reform cohort reconstructed in 607 not-stood wards) · flows \u003c 0.3pp suppressed · minor parties (Oth) omitted","x":0.5,"xanchor":"center","xref":"paper","y":-0.05,"yref":"paper"}]},                        {"responsive": true}                    )                };            </script>        </div>
+        <script charset="utf-8" src="https://cdn.plot.ly/plotly-3.5.0.min.js" integrity="sha256-fHbNLP+GlIXN+efbQec78UkemUz3NJp7UmfGxC1tNxs=" crossorigin="anonymous"></script>                <div id="a3edbe2a-a017-49fb-97d1-59f62e7c4c37" class="plotly-graph-div" style="height:720px; width:950px;"></div>            <script>                window.PLOTLYENV=window.PLOTLYENV || {};                                if (document.getElementById("a3edbe2a-a017-49fb-97d1-59f62e7c4c37")) {                    Plotly.newPlot(                        "a3edbe2a-a017-49fb-97d1-59f62e7c4c37",                        [{"arrangement":"perpendicular","link":{"color":["rgba(228,0,59,0.3)","rgba(228,0,59,0.6)","rgba(228,0,59,0.6)","rgba(0,135,220,0.3)","rgba(0,135,220,0.6)","rgba(250,166,26,0.3)","rgba(106,176,35,0.3)","rgba(18,182,207,0.3)","rgba(74,74,74,0.6)","rgba(74,74,74,0.6)","rgba(74,74,74,0.6)","rgba(74,74,74,0.3)"],"hovertemplate":"%{source.label} → %{target.label}\u003cbr\u003e%{value:.1f}pp\u003cextra\u003e\u003c\u002fextra\u003e","source":[0,0,0,1,1,2,3,4,5,5,5,5],"target":[6,9,11,7,10,8,9,10,8,9,10,11],"value":[7.742660279272259,2.6055423805748252,1.088028686393883,6.434881133011283,1.2723170941462203,4.764927990738365,3.048109600297096,3.507013702919272,0.32117261665281394,0.6685634060936128,7.013361220785937,57.21460756657986]},"node":{"color":["#E4003B","#0087DC","#FAA61A","#6AB023","#12B6CF","#4A4A4A","#E4003B","#0087DC","#FAA61A","#6AB023","#12B6CF","#4A4A4A"],"hovertemplate":"%{label}\u003cbr\u003e%{value:.1f}pp of electorate\u003cextra\u003e\u003c\u002fextra\u003e","label":["Lab","Con","LD","Grn","Ref","DNV","Lab","Con","LD","Grn","Ref","DNV"],"line":{"color":"rgba(0,0,0,0)","width":0},"pad":24,"thickness":22},"type":"sankey"}],                        {"template":{"data":{"histogram2dcontour":[{"type":"histogram2dcontour","colorbar":{"outlinewidth":0,"ticks":""},"colorscale":[[0.0,"#0d0887"],[0.1111111111111111,"#46039f"],[0.2222222222222222,"#7201a8"],[0.3333333333333333,"#9c179e"],[0.4444444444444444,"#bd3786"],[0.5555555555555556,"#d8576b"],[0.6666666666666666,"#ed7953"],[0.7777777777777778,"#fb9f3a"],[0.8888888888888888,"#fdca26"],[1.0,"#f0f921"]]}],"choropleth":[{"type":"choropleth","colorbar":{"outlinewidth":0,"ticks":""}}],"histogram2d":[{"type":"histogram2d","colorbar":{"outlinewidth":0,"ticks":""},"colorscale":[[0.0,"#0d0887"],[0.1111111111111111,"#46039f"],[0.2222222222222222,"#7201a8"],[0.3333333333333333,"#9c179e"],[0.4444444444444444,"#bd3786"],[0.5555555555555556,"#d8576b"],[0.6666666666666666,"#ed7953"],[0.7777777777777778,"#fb9f3a"],[0.8888888888888888,"#fdca26"],[1.0,"#f0f921"]]}],"heatmap":[{"type":"heatmap","colorbar":{"outlinewidth":0,"ticks":""},"colorscale":[[0.0,"#0d0887"],[0.1111111111111111,"#46039f"],[0.2222222222222222,"#7201a8"],[0.3333333333333333,"#9c179e"],[0.4444444444444444,"#bd3786"],[0.5555555555555556,"#d8576b"],[0.6666666666666666,"#ed7953"],[0.7777777777777778,"#fb9f3a"],[0.8888888888888888,"#fdca26"],[1.0,"#f0f921"]]}],"contourcarpet":[{"type":"contourcarpet","colorbar":{"outlinewidth":0,"ticks":""}}],"contour":[{"type":"contour","colorbar":{"outlinewidth":0,"ticks":""},"colorscale":[[0.0,"#0d0887"],[0.1111111111111111,"#46039f"],[0.2222222222222222,"#7201a8"],[0.3333333333333333,"#9c179e"],[0.4444444444444444,"#bd3786"],[0.5555555555555556,"#d8576b"],[0.6666666666666666,"#ed7953"],[0.7777777777777778,"#fb9f3a"],[0.8888888888888888,"#fdca26"],[1.0,"#f0f921"]]}],"surface":[{"type":"surface","colorbar":{"outlinewidth":0,"ticks":""},"colorscale":[[0.0,"#0d0887"],[0.1111111111111111,"#46039f"],[0.2222222222222222,"#7201a8"],[0.3333333333333333,"#9c179e"],[0.4444444444444444,"#bd3786"],[0.5555555555555556,"#d8576b"],[0.6666666666666666,"#ed7953"],[0.7777777777777778,"#fb9f3a"],[0.8888888888888888,"#fdca26"],[1.0,"#f0f921"]]}],"mesh3d":[{"type":"mesh3d","colorbar":{"outlinewidth":0,"ticks":""}}],"scatter":[{"fillpattern":{"fillmode":"overlay","size":10,"solidity":0.2},"type":"scatter"}],"parcoords":[{"type":"parcoords","line":{"colorbar":{"outlinewidth":0,"ticks":""}}}],"scatterpolargl":[{"type":"scatterpolargl","marker":{"colorbar":{"outlinewidth":0,"ticks":""}}}],"bar":[{"error_x":{"color":"#2a3f5f"},"error_y":{"color":"#2a3f5f"},"marker":{"line":{"color":"#E5ECF6","width":0.5},"pattern":{"fillmode":"overlay","size":10,"solidity":0.2}},"type":"bar"}],"scattergeo":[{"type":"scattergeo","marker":{"colorbar":{"outlinewidth":0,"ticks":""}}}],"scatterpolar":[{"type":"scatterpolar","marker":{"colorbar":{"outlinewidth":0,"ticks":""}}}],"histogram":[{"marker":{"pattern":{"fillmode":"overlay","size":10,"solidity":0.2}},"type":"histogram"}],"scattergl":[{"type":"scattergl","marker":{"colorbar":{"outlinewidth":0,"ticks":""}}}],"scatter3d":[{"type":"scatter3d","line":{"colorbar":{"outlinewidth":0,"ticks":""}},"marker":{"colorbar":{"outlinewidth":0,"ticks":""}}}],"scattermap":[{"type":"scattermap","marker":{"colorbar":{"outlinewidth":0,"ticks":""}}}],"scattermapbox":[{"type":"scattermapbox","marker":{"colorbar":{"outlinewidth":0,"ticks":""}}}],"scatterternary":[{"type":"scatterternary","marker":{"colorbar":{"outlinewidth":0,"ticks":""}}}],"scattercarpet":[{"type":"scattercarpet","marker":{"colorbar":{"outlinewidth":0,"ticks":""}}}],"carpet":[{"aaxis":{"endlinecolor":"#2a3f5f","gridcolor":"white","linecolor":"white","minorgridcolor":"white","startlinecolor":"#2a3f5f"},"baxis":{"endlinecolor":"#2a3f5f","gridcolor":"white","linecolor":"white","minorgridcolor":"white","startlinecolor":"#2a3f5f"},"type":"carpet"}],"table":[{"cells":{"fill":{"color":"#EBF0F8"},"line":{"color":"white"}},"header":{"fill":{"color":"#C8D4E3"},"line":{"color":"white"}},"type":"table"}],"barpolar":[{"marker":{"line":{"color":"#E5ECF6","width":0.5},"pattern":{"fillmode":"overlay","size":10,"solidity":0.2}},"type":"barpolar"}],"pie":[{"automargin":true,"type":"pie"}]},"layout":{"autotypenumbers":"strict","colorway":["#636efa","#EF553B","#00cc96","#ab63fa","#FFA15A","#19d3f3","#FF6692","#B6E880","#FF97FF","#FECB52"],"font":{"color":"#2a3f5f"},"hovermode":"closest","hoverlabel":{"align":"left"},"paper_bgcolor":"white","plot_bgcolor":"#E5ECF6","polar":{"bgcolor":"#E5ECF6","angularaxis":{"gridcolor":"white","linecolor":"white","ticks":""},"radialaxis":{"gridcolor":"white","linecolor":"white","ticks":""}},"ternary":{"bgcolor":"#E5ECF6","aaxis":{"gridcolor":"white","linecolor":"white","ticks":""},"baxis":{"gridcolor":"white","linecolor":"white","ticks":""},"caxis":{"gridcolor":"white","linecolor":"white","ticks":""}},"coloraxis":{"colorbar":{"outlinewidth":0,"ticks":""}},"colorscale":{"sequential":[[0.0,"#0d0887"],[0.1111111111111111,"#46039f"],[0.2222222222222222,"#7201a8"],[0.3333333333333333,"#9c179e"],[0.4444444444444444,"#bd3786"],[0.5555555555555556,"#d8576b"],[0.6666666666666666,"#ed7953"],[0.7777777777777778,"#fb9f3a"],[0.8888888888888888,"#fdca26"],[1.0,"#f0f921"]],"sequentialminus":[[0.0,"#0d0887"],[0.1111111111111111,"#46039f"],[0.2222222222222222,"#7201a8"],[0.3333333333333333,"#9c179e"],[0.4444444444444444,"#bd3786"],[0.5555555555555556,"#d8576b"],[0.6666666666666666,"#ed7953"],[0.7777777777777778,"#fb9f3a"],[0.8888888888888888,"#fdca26"],[1.0,"#f0f921"]],"diverging":[[0,"#8e0152"],[0.1,"#c51b7d"],[0.2,"#de77ae"],[0.3,"#f1b6da"],[0.4,"#fde0ef"],[0.5,"#f7f7f7"],[0.6,"#e6f5d0"],[0.7,"#b8e186"],[0.8,"#7fbc41"],[0.9,"#4d9221"],[1,"#276419"]]},"xaxis":{"gridcolor":"white","linecolor":"white","ticks":"","title":{"standoff":15},"zerolinecolor":"white","automargin":true,"zerolinewidth":2},"yaxis":{"gridcolor":"white","linecolor":"white","ticks":"","title":{"standoff":15},"zerolinecolor":"white","automargin":true,"zerolinewidth":2},"scene":{"xaxis":{"backgroundcolor":"#E5ECF6","gridcolor":"white","linecolor":"white","showbackground":true,"ticks":"","zerolinecolor":"white","gridwidth":2},"yaxis":{"backgroundcolor":"#E5ECF6","gridcolor":"white","linecolor":"white","showbackground":true,"ticks":"","zerolinecolor":"white","gridwidth":2},"zaxis":{"backgroundcolor":"#E5ECF6","gridcolor":"white","linecolor":"white","showbackground":true,"ticks":"","zerolinecolor":"white","gridwidth":2}},"shapedefaults":{"line":{"color":"#2a3f5f"}},"annotationdefaults":{"arrowcolor":"#2a3f5f","arrowhead":0,"arrowwidth":1},"geo":{"bgcolor":"white","landcolor":"#E5ECF6","subunitcolor":"white","showland":true,"showlakes":true,"lakecolor":"white"},"title":{"x":0.05},"mapbox":{"style":"light"}}},"title":{"font":{"family":"Helvetica Neue, Arial, sans-serif","size":22,"color":"#1a1a1a"},"text":"Voter flows, 2024 intent → 2026 vote","x":0.5,"xanchor":"center","y":0.96},"font":{"family":"Helvetica Neue, Arial, sans-serif","size":14,"color":"#1a1a1a"},"margin":{"l":80,"r":100,"t":120,"b":80},"paper_bgcolor":"white","plot_bgcolor":"white","width":950,"height":720,"annotations":[{"font":{"color":"#555","size":13},"showarrow":false,"text":"Latent-Reform model: 2024 Reform cohort includes voters who would have chosen Reform had a candidate stood","x":0.5,"xanchor":"center","xref":"paper","y":1.06,"yref":"paper"},{"font":{"color":"#888","size":10},"showarrow":false,"text":"Latent-Reform Bayes RxC · n=754 wards (2024 Reform cohort reconstructed in 607 not-stood wards) · flows \u003c 0.3pp suppressed · minor parties (Oth) omitted","x":0.5,"xanchor":"center","xref":"paper","y":-0.05,"yref":"paper"}]},                        {"responsive": true}                    )                };            </script>        </div>
 </body>
 </html>

diff --git a/plot_sankey.py b/plot_sankey.py
@@ -154,7 +154,7 @@ with open(HERE / "transition_matrix.meta.json") as f:
 fig = build_sankey(
     T_main,
     x_mean,
-    title="Voter flows, UK local elections 2024 → 2026",
+    title="Voter flows, English local elections 2024 → 2026",
     subtitle="",
     footer=(
         f"Bayes RxC model · n={n_wards} wards · "